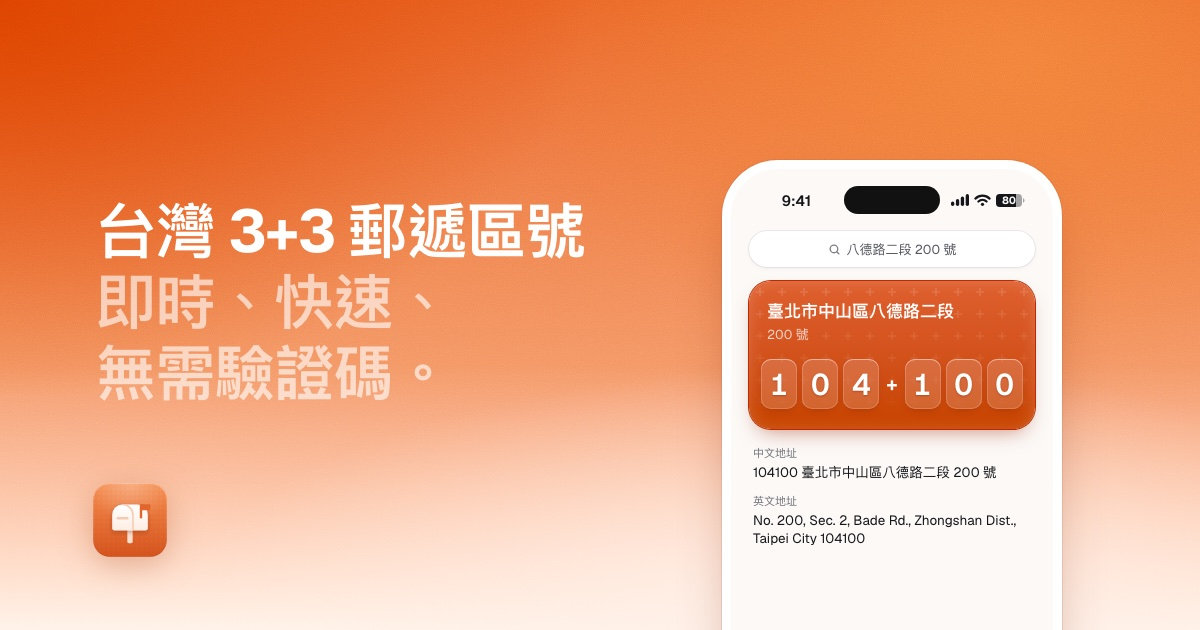
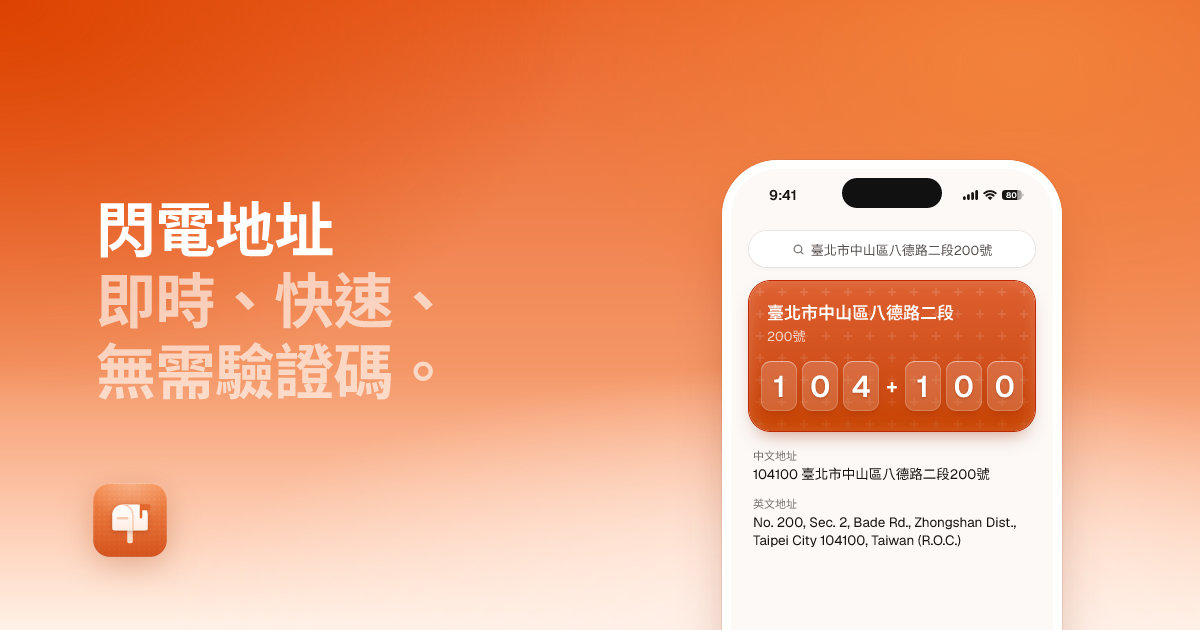
feat: rename the site to 閃電地址
The title, header, meta tags, README and the og image's headline now say
閃電地址, and the home description reads 填表不卡關，地址閃電查。

diff --git a/index.html b/index.html
@@ -22,31 +22,31 @@
   <link rel="apple-touch-icon" href="/apple-touch-icon.png" />
   <meta name="viewport" content="width=device-width, initial-scale=1.0" />
   <!-- Primary meta Tags -->
-  <title>台灣 3+3 郵遞區號查詢</title>
-  <meta name="title" content="台灣 3+3 郵遞區號查詢" />
-  <meta name="description" content="即時、快速、無需驗證碼之郵遞區號線上查詢工具。" />
+  <title>閃電地址</title>
+  <meta name="title" content="閃電地址" />
+  <meta name="description" content="填表不卡關，地址閃電查。" />
   <link rel="canonical" href="https://zipcode.gnehs.net/" />
 
   <!-- Open Graph / Facebook -->
   <meta property="og:type" content="website" />
   <meta property="og:url" content="https://zipcode.gnehs.net/" />
-  <meta property="og:site_name" content="台灣 3+3 郵遞區號查詢" />
-  <meta property="og:title" content="台灣 3+3 郵遞區號查詢" />
-  <meta property="og:description" content="即時、快速、無需驗證碼之郵遞區號線上查詢工具。" />
+  <meta property="og:site_name" content="閃電地址" />
+  <meta property="og:title" content="閃電地址" />
+  <meta property="og:description" content="填表不卡關，地址閃電查。" />
   <meta property="og:image" content="https://zipcode.gnehs.net/og.jpg" />
 
   <!-- Twitter -->
   <meta property="twitter:card" content="summary_large_image" />
   <meta property="twitter:url" content="https://zipcode.gnehs.net/" />
-  <meta property="twitter:title" content="台灣 3+3 郵遞區號查詢" />
-  <meta property="twitter:description" content="即時、快速、無需驗證碼之郵遞區號線上查詢工具。" />
+  <meta property="twitter:title" content="閃電地址" />
+  <meta property="twitter:description" content="填表不卡關，地址閃電查。" />
   <meta property="twitter:image" content="https://zipcode.gnehs.net/og.jpg" />
 
   <script type="application/ld+json">
     {
       "@context": "https://schema.org",
       "@type": "WebSite",
-      "name": "台灣 3+3 郵遞區號查詢",
+      "name": "閃電地址",
       "url": "https://zipcode.gnehs.net/"
     }
   </script>

diff --git a/src/lib/site.ts b/src/lib/site.ts
@@ -1,5 +1,5 @@
 export const SITE_ORIGIN = "https://zipcode.gnehs.net"
-export const SITE_TITLE = "台灣 3+3 郵遞區號查詢"
+export const SITE_TITLE = "閃電地址"
 
 export type PageMeta = {
   title: string
@@ -9,7 +9,7 @@ export type PageMeta = {
 
 export const HOME_META: PageMeta = {
   title: SITE_TITLE,
-  description: "即時、快速、無需驗證碼之郵遞區號線上查詢工具。",
+  description: "填表不卡關，地址閃電查。",
   path: "/",
 }
 

diff --git a/worker/og-image.tsx b/worker/og-image.tsx
@@ -172,7 +172,7 @@ function OgImage({ screen }: { screen: PhoneScreen }) {
           letterSpacing: "-0.01em",
         }}
       >
-        <div style={{ color: "white" }}>台灣 3+3 郵遞區號</div>
+        <div style={{ color: "white" }}>閃電地址</div>
         <div style={{ color: "rgba(255, 255, 255, 0.62)" }}>即時、快速、</div>
         <div style={{ color: "rgba(255, 255, 255, 0.62)" }}>無需驗證碼。</div>
       </div>

diff --git a/src/components/site-header.tsx b/src/components/site-header.tsx
@@ -44,7 +44,7 @@ export function SiteHeader({
             compact ? "text-lg" : "text-2xl sm:text-3xl",
           )}
         >
-          台灣 3+3 郵遞區號查詢
+          閃電地址
         </h1>
       </Link>
     </header>

diff --git a/README.md b/README.md
@@ -1,4 +1,4 @@
-# 台灣 3+3 郵遞區號查詢
+# 閃電地址
 
 即時、快速、無需驗證碼的台灣 3+3 郵遞區號查詢工具。
 
